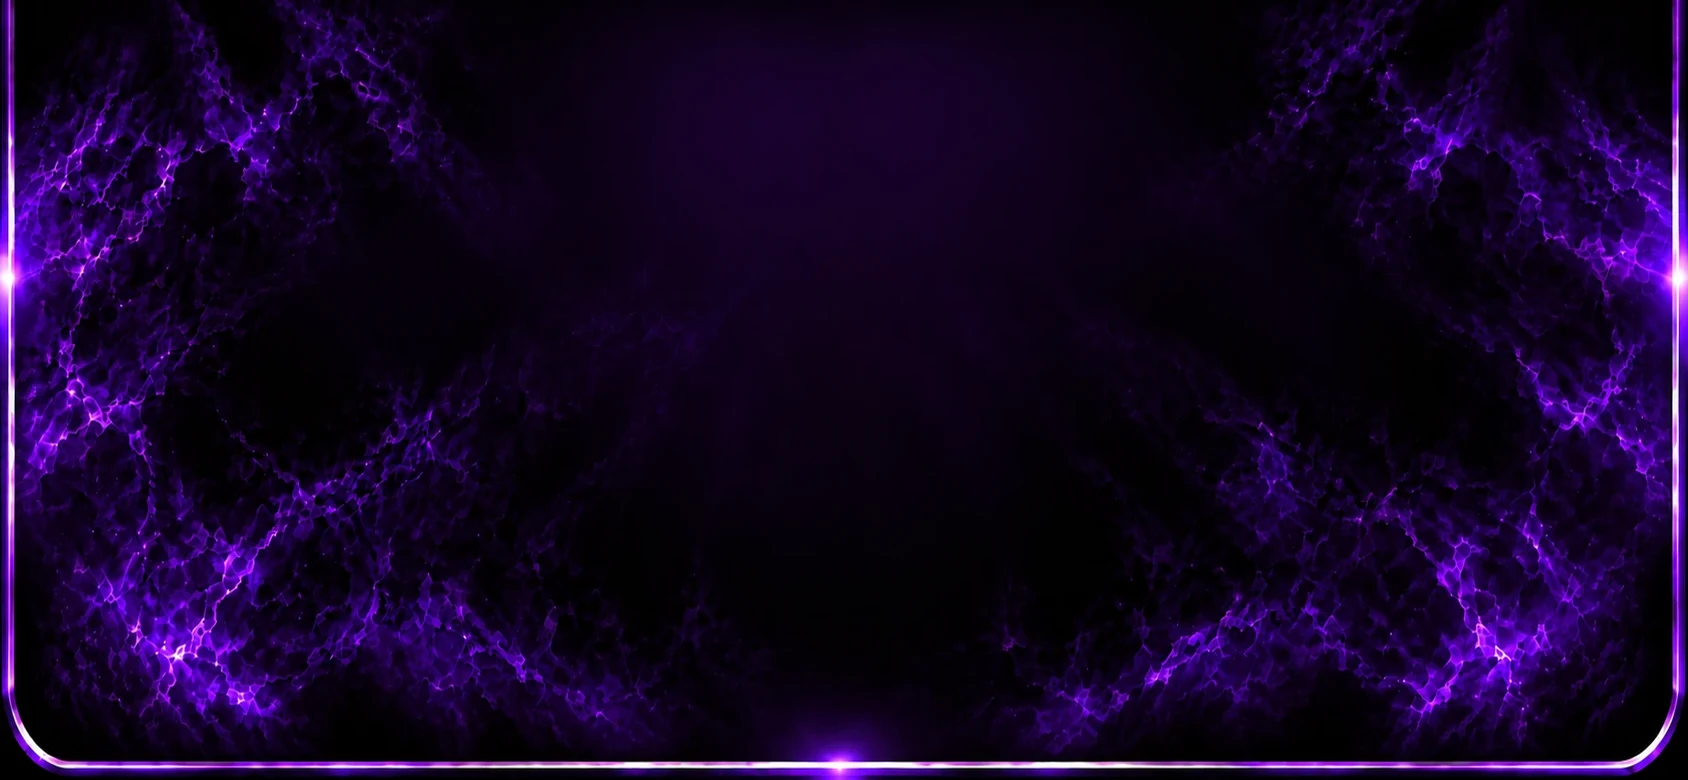
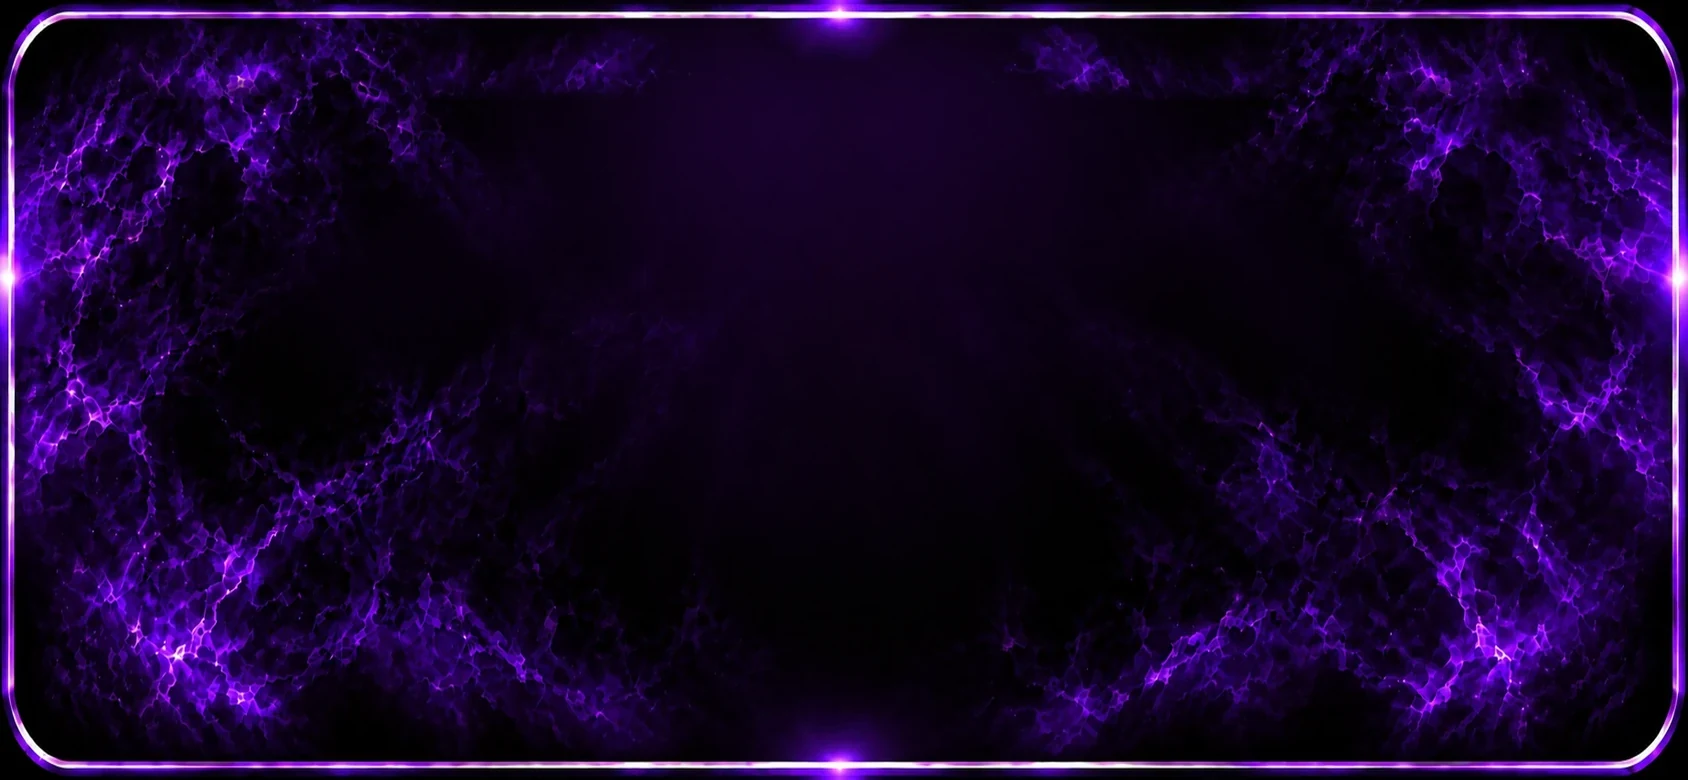
Build 36: iPhone frame closed at the top and kept clear of the rounded screen corners
The backdrop art gets a top edge mirrored from its own bottom edge (original kept in assets/img/ui/orig/). On
phones the frame is inset so its rounded corners stay inside the screen's, and page headers sit just under it.

Claude-Session: https://claude.ai/code/session_019NdtRqFJB7Jt4WqcLHg5fM

Changed region(s): [[0.0, 0.0, 1.0, 0.1231]]

diff --git a/rebuild/styles/app.css b/rebuild/styles/app.css
@@ -1351,6 +1351,19 @@ body::before {
 body::before { height: max(100lvh, var(--cc-screen-h, 0px)); }
 /* The app fills exactly the visible page: never taller, so nothing is pushed under the device's own bars. */
 #app { height: auto; min-height: 0; }
+/* iPhone: pull the frame in from the screen edges so its rounded corners are not clipped by the screen's own
+   rounded corners (screen radius about 55pt, frame about 30pt; 12px across and 5px down keeps the arc inside). */
+@media (max-height: 699px) {
+  body::before {
+    --frame-x: 12px; --frame-y: 5px;
+    left: var(--frame-x); top: var(--frame-y);
+    width: calc(100vw - 2 * var(--frame-x));
+    height: calc(max(100lvh, var(--cc-screen-h, 0px)) - 2 * var(--frame-y));
+    background-size: 100% 100%;
+  }
+  /* Page headers sit just under the frame's top edge instead of on it. */
+  .page { padding-top: max(var(--safe-t), 14px); }
+}
 
 /* ── 25. Host screens: Table / Judge switch, Judge mode, legality marks ───────── */
 /* Footer on table screens: phase | screen switch | Host Tools. */

diff --git a/rebuild/src/version.js b/rebuild/src/version.js
@@ -1,4 +1,4 @@
 // The single build stamp. Shown on the landing screen and used by the service worker
 // to tell one release from the next. Change it once per release, then run `node tools/stamp.mjs` so build.json (which devices check for updates) matches.
-export const VERSION = '1.0.0-rebuild.35';
+export const VERSION = '1.0.0-rebuild.36';
 export const BUILD_DATE = '2026-10-29';

diff --git a/rebuild/sw.js b/rebuild/sw.js
@@ -4,7 +4,7 @@
 // release is picked up on the next load — no per-file cache tokens to maintain. The cache
 // is only used when the device is offline.
 
-const CACHE = 'commander-companion-v35';
+const CACHE = 'commander-companion-v36';
 
 self.addEventListener('install', () => self.skipWaiting());
 

diff --git a/rebuild/HANDOFF.md b/rebuild/HANDOFF.md
@@ -1,4 +1,4 @@
-# Commander Companion — handoff (build 1.0.0-rebuild.35, 2026-10-29)
+# Commander Companion — handoff (build 1.0.0-rebuild.36, 2026-10-29)
 
 Read this before changing anything. It records what the app is, how it is built and shipped,
 what each part does, the owner's rules, open notes, and the roadmap.
@@ -8,7 +8,7 @@ what each part does, the owner's rules, open notes, and the roadmap.
 - Repo: `MaxFHurt/CommanderCompanion`, branch `main`. The app is the `rebuild/` folder; the repo root only
   forwards to it. The Deck Builder (formerly Deck Companion) is `rebuild/deck/` — see README.md, Deck Builder.
 - Live: https://maxfhurt.github.io/CommanderCompanion/rebuild/ (GitHub Pages, serves `main`).
-- Live build: **1.0.0-rebuild.34**. Build 35 (more effects) is committed, not pushed (`src/version.js`, `build.json`, `sw.js` cache `commander-companion-v35`).
+- Live build: **1.0.0-rebuild.35**. Build 36 (iPhone frame) is committed, not pushed (`src/version.js`, `build.json`, `sw.js` cache `commander-companion-v36`).
 - **Visual masters:** the owner's approved screens were in `design/` until build 30 and are kept in git history
   (`git show b0755ed:rebuild/design/visual-master-game-ipad.png > master.png`). Match them.
 - Primary devices: iPad landscape (home-screen icon) and iPhone landscape. Design master is
@@ -253,6 +253,11 @@ declarations; verify with `tests/style_diff.py` (build 28 cleanup was pixel-iden
 
 - Online games: hands are hidden on screen, but each device holds the whole game (it runs the rules), so
   someone reading the app's data with developer tools could see other hands. Fine between friends.
+- **Backdrop frame (build 36, owner 29 Oct: on iPhone it had no top edge and its corners were cut off):** the art
+  `assets/img/ui/background.webp` now has a top edge made by mirroring its own bottom edge and corners (original
+  kept in `assets/img/ui/orig/background.webp`). On phones (`max-height: 699px`) the backdrop is inset 12px / 5px
+  so the frame's rounded corners stay inside the screen's, and `.page` gets a 14px top margin so headers sit under
+  the frame. On iPad the art still covers the screen (sides cropped as before, now with top and bottom lines).
 - Ward works for spells only, not activated abilities.
 - Still resolved by hand: mutate, madness, suspend, spectacle, and anything the terms key marks
   'manual' or 'partial' (e.g. split/fuse, flip cards, Room, Class, attractions).
